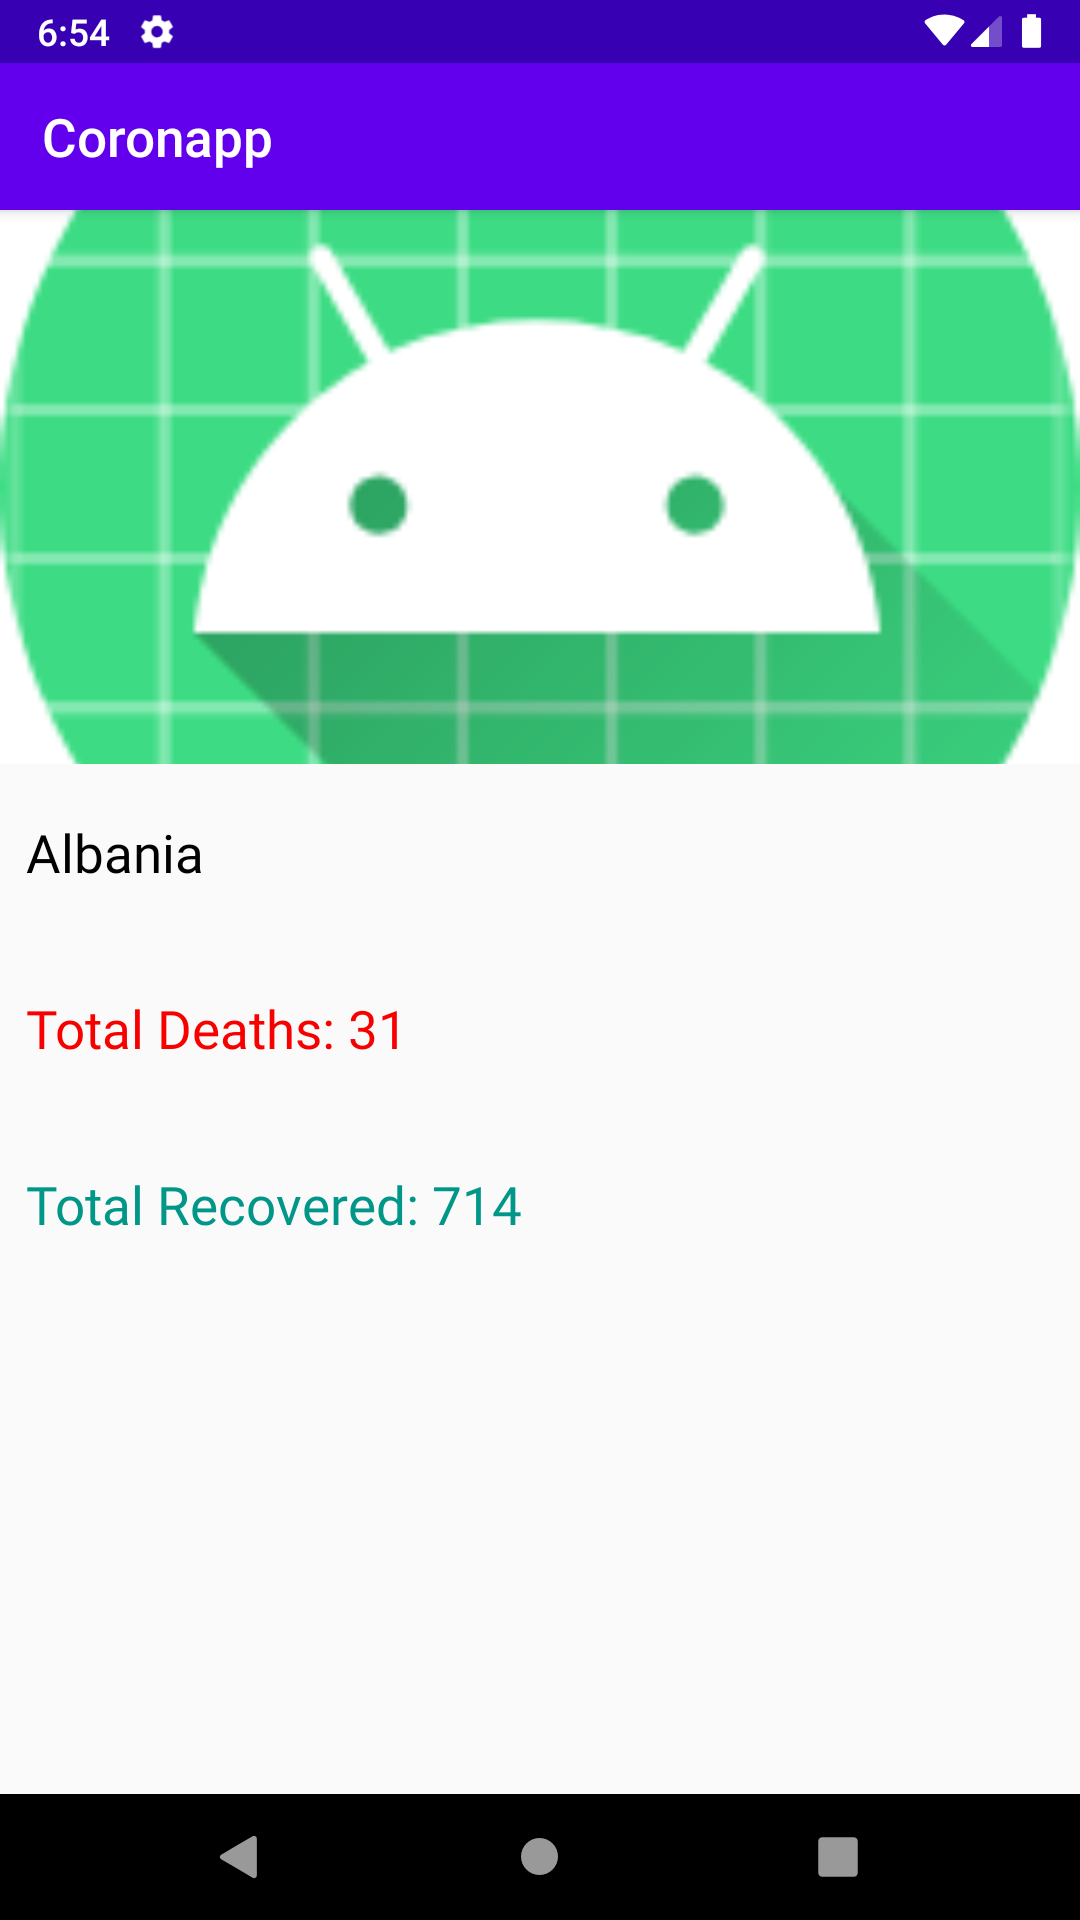
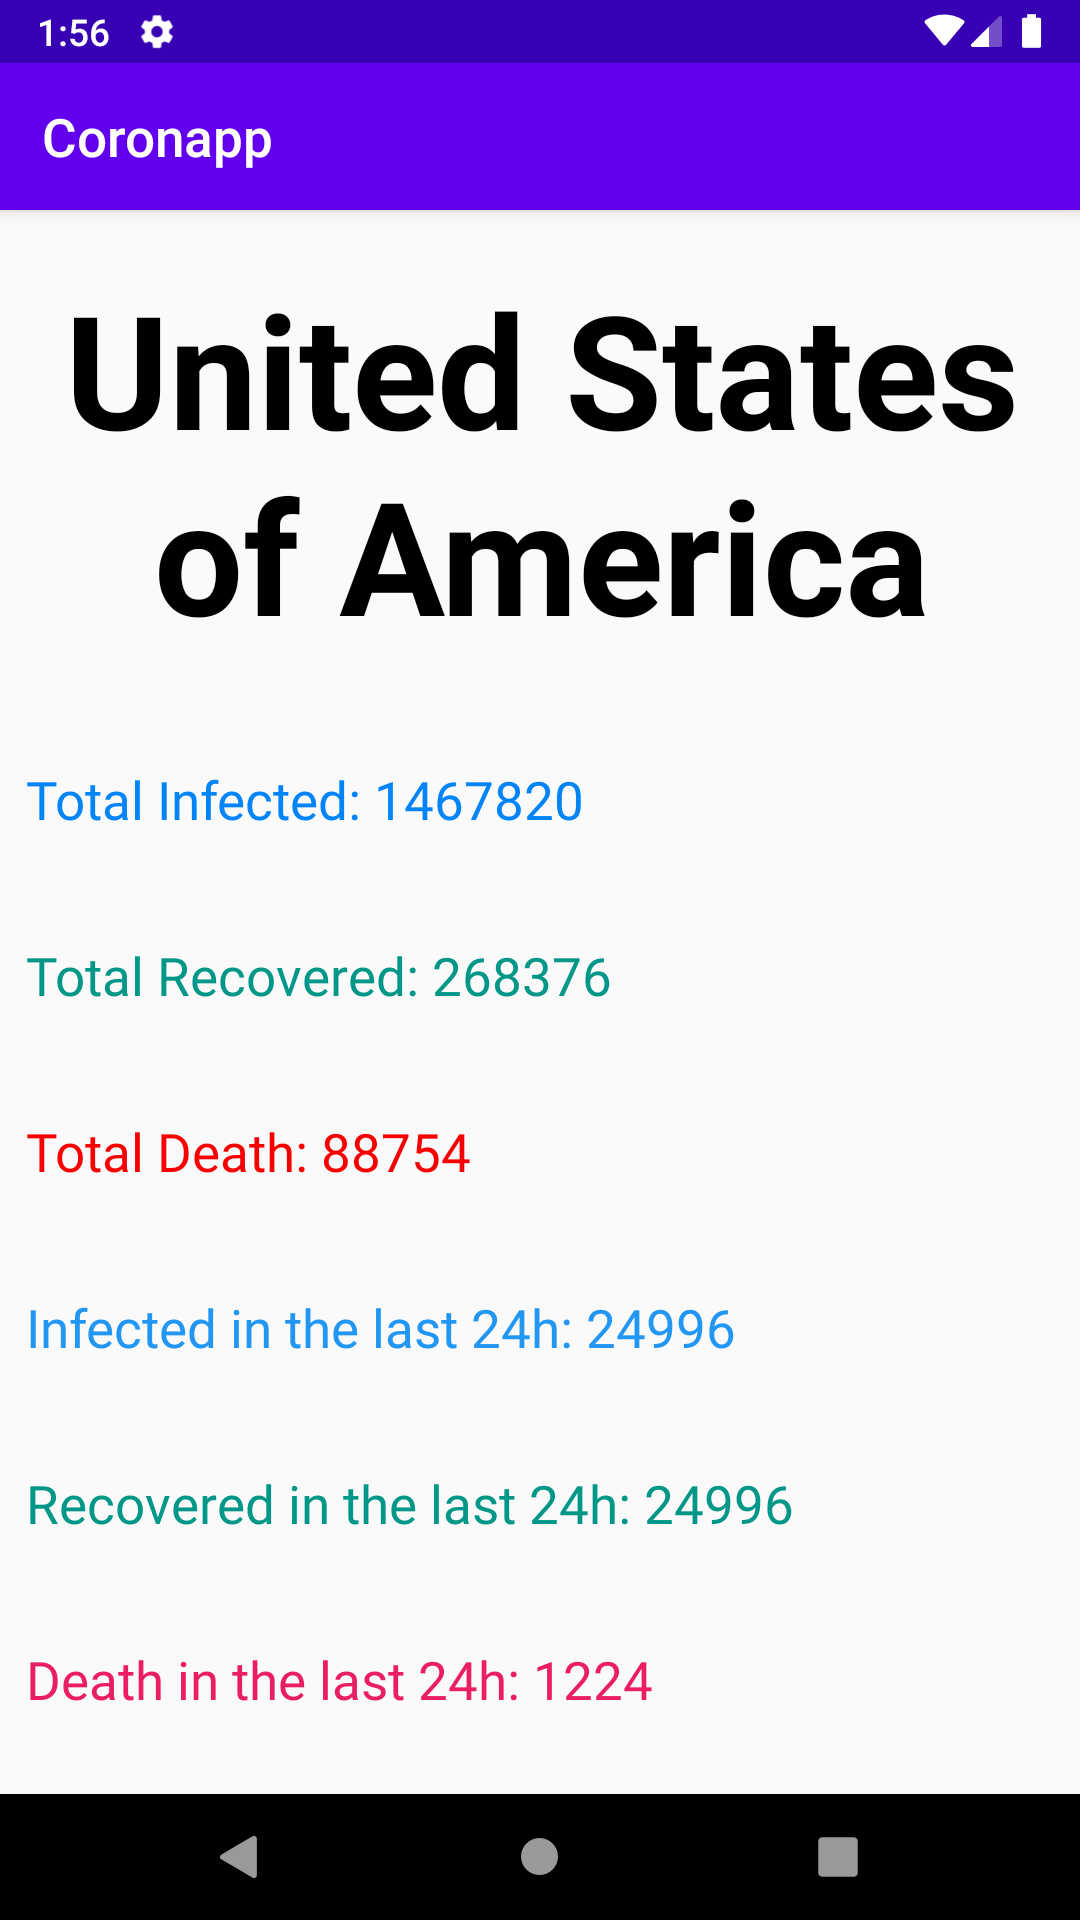
Ajout d'information sur l'activité détail

diff --git a/app/src/main/java/com/example/coronapp/presentation/view/DetailsActivity.java b/app/src/main/java/com/example/coronapp/presentation/view/DetailsActivity.java
@@ -26,6 +26,11 @@ public class DetailsActivity extends AppCompatActivity {
     private TextView txtCountry;
     private TextView txtDeath;
     private TextView txtRecovered;
+    private TextView txtConfirmed;
+    private TextView txtConfirmed24h;
+    private TextView txtRecovered24h;
+    private TextView txtDeath24h;
+
 
     @Override
     protected void onCreate(Bundle savedInstanceState) {
@@ -33,8 +38,13 @@ public class DetailsActivity extends AppCompatActivity {
         setContentView(R.layout.activity_details);
 
         txtCountry = findViewById(R.id.details_txt);
-        txtDeath = findViewById(R.id.mort_txt);
         txtRecovered = findViewById(R.id.recovered_txt);
+        txtDeath = findViewById(R.id.mort_txt);
+        txtConfirmed = findViewById(R.id.confirmed_txt);
+        txtRecovered24h = findViewById(R.id.recovered24_txt);
+        txtDeath24h = findViewById(R.id.mort24_txt);
+        txtConfirmed24h = findViewById(R.id.infected24_txt);
+
 
 
         Intent intent = getIntent();
@@ -48,8 +58,12 @@ public class DetailsActivity extends AppCompatActivity {
     private void showDetails(Corona corona) {
 
         txtCountry.setText( corona.getCountry());
-        txtDeath.setText("Total Deaths: " + corona.getTotalDeaths());
+        txtConfirmed.setText("Total Infected: " + corona.getTotalConfirmed());
+        txtDeath.setText("Total Death: " + corona.getTotalDeaths());
         txtRecovered.setText("Total Recovered: " + corona.getTotalRecovered());
+        txtConfirmed24h.setText("Infected in the last 24h: " + corona.getNewConfirmed());
+        txtDeath24h.setText("Death in the last 24h: " + corona.getNewDeaths());
+        txtRecovered24h.setText("Recovered in the last 24h: " + corona.getNewConfirmed());
 
     }
 
